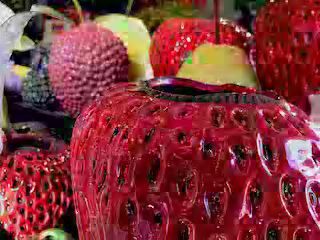
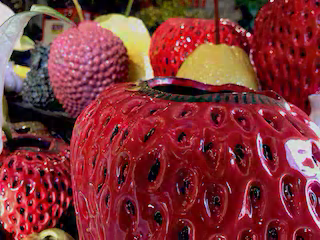
ycbcr conv

diff --git a/Sources/veif/Image.swift b/Sources/veif/Image.swift
@@ -355,7 +355,7 @@ public func pngToYCbCr(data: Data) throws -> YCbCrImage {
         throw NSError(domain: "ImageError", code: 1, userInfo: [NSLocalizedDescriptionKey: "Failed to get pixel data"])
     }
     
-    let colorSpace = CGColorSpaceCreateDeviceRGB()
+    let colorSpace = CGColorSpace(name: CGColorSpace.sRGB)!
     let bytesPerPixel = 4
     let bytesPerRow = (bytesPerPixel * width)
     var rawData = [UInt8](repeating: 0, count: (height * bytesPerRow))
@@ -377,21 +377,21 @@ public func pngToYCbCr(data: Data) throws -> YCbCrImage {
     for y in 0..<height {
         for x in 0..<width {
             let offset = ((y * bytesPerRow) + (x * bytesPerPixel))
-            let r = Float(rawData[offset + 0])
-            let g = Float(rawData[offset + 1])
-            let b = Float(rawData[offset + 2])
+            let r1 = Int32(rawData[offset + 0])
+            let g1 = Int32(rawData[offset + 1])
+            let b1 = Int32(rawData[offset + 2])
             
-            let yVal = ((0.29900 * r) + (0.58700 * g) + (0.11400 * b))
-            let cbVal = (((-1.0 * 0.16874) * r) - (0.33126 * g) + (0.50000 * b) + 128.0)
-            let crVal = ((0.50000 * r) - (0.41869 * g) - (0.08131 * b) + 128.0)
+            let yVal = (19595 * r1 + 38470 * g1 + 7471 * b1 + (1 << 15)) >> 16
+            let cbVal = ((-11059 * r1 - 21709 * g1 + 32768 * b1 + (1 << 15)) >> 16) + 128
+            let crVal = ((32768 * r1 - 27439 * g1 - 5329 * b1 + (1 << 15)) >> 16) + 128
             
             let yIdx = ycbcr.yOffset(x, y)
-            ycbcr.yPlane[yIdx] = UInt8(clamping: Int(yVal))
+            ycbcr.yPlane[yIdx] = UInt8(clamping: yVal)
             
             let cOff = ycbcr.cOffset((x / 2), (y / 2))
              if cOff < ycbcr.cbPlane.count {
-                ycbcr.cbPlane[cOff] = UInt8(clamping: Int(cbVal))
-                ycbcr.crPlane[cOff] = UInt8(clamping: Int(crVal))
+                ycbcr.cbPlane[cOff] = UInt8(clamping: cbVal)
+                ycbcr.crPlane[cOff] = UInt8(clamping: crVal)
             }
         }
     }
@@ -424,7 +424,7 @@ public func saveImage(img: YCbCrImage, url: URL) throws {
         }
     }
     
-    let colorSpace = CGColorSpaceCreateDeviceRGB()
+    let colorSpace = CGColorSpace(name: CGColorSpace.sRGB)!
     guard let context = CGContext(
         data: &rawData,
         width: width,

diff --git a/Sources/example/main.swift b/Sources/example/main.swift
@@ -11,7 +11,7 @@ func runBenchmark(srcURL: URL) {
         fatalError("Failed to read src.png")
     }
 
-    // Convert to YCbCrImage (using veif's pngToYCbCr, which now supports generic image format via CGImageSource)
+    // Convert to YCbCrImage
     guard let ycbcr = try? pngToYCbCr(data: data) else {
         fatalError("Failed to decode src.png")
     }
@@ -42,8 +42,6 @@ func runJPEGComparison(q: Int, refLarge: YCbCrImage, refMid: YCbCrImage, refSmal
     let dstData = NSMutableData()
     guard let destination = CGImageDestinationCreateWithData(dstData as CFMutableData, UTType.jpeg.identifier as CFString, 1, nil) else { return }
 
-    // kCGImageDestinationLossyCompressionQuality is defined in ImageIO. But might need specific import or usage.
-    // It is a CFString key.
     let options = [kCGImageDestinationLossyCompressionQuality: (Double(q) / 100.0)] as CFDictionary
     CGImageDestinationAddImage(destination, cgImage, options)
     CGImageDestinationFinalize(destination)
